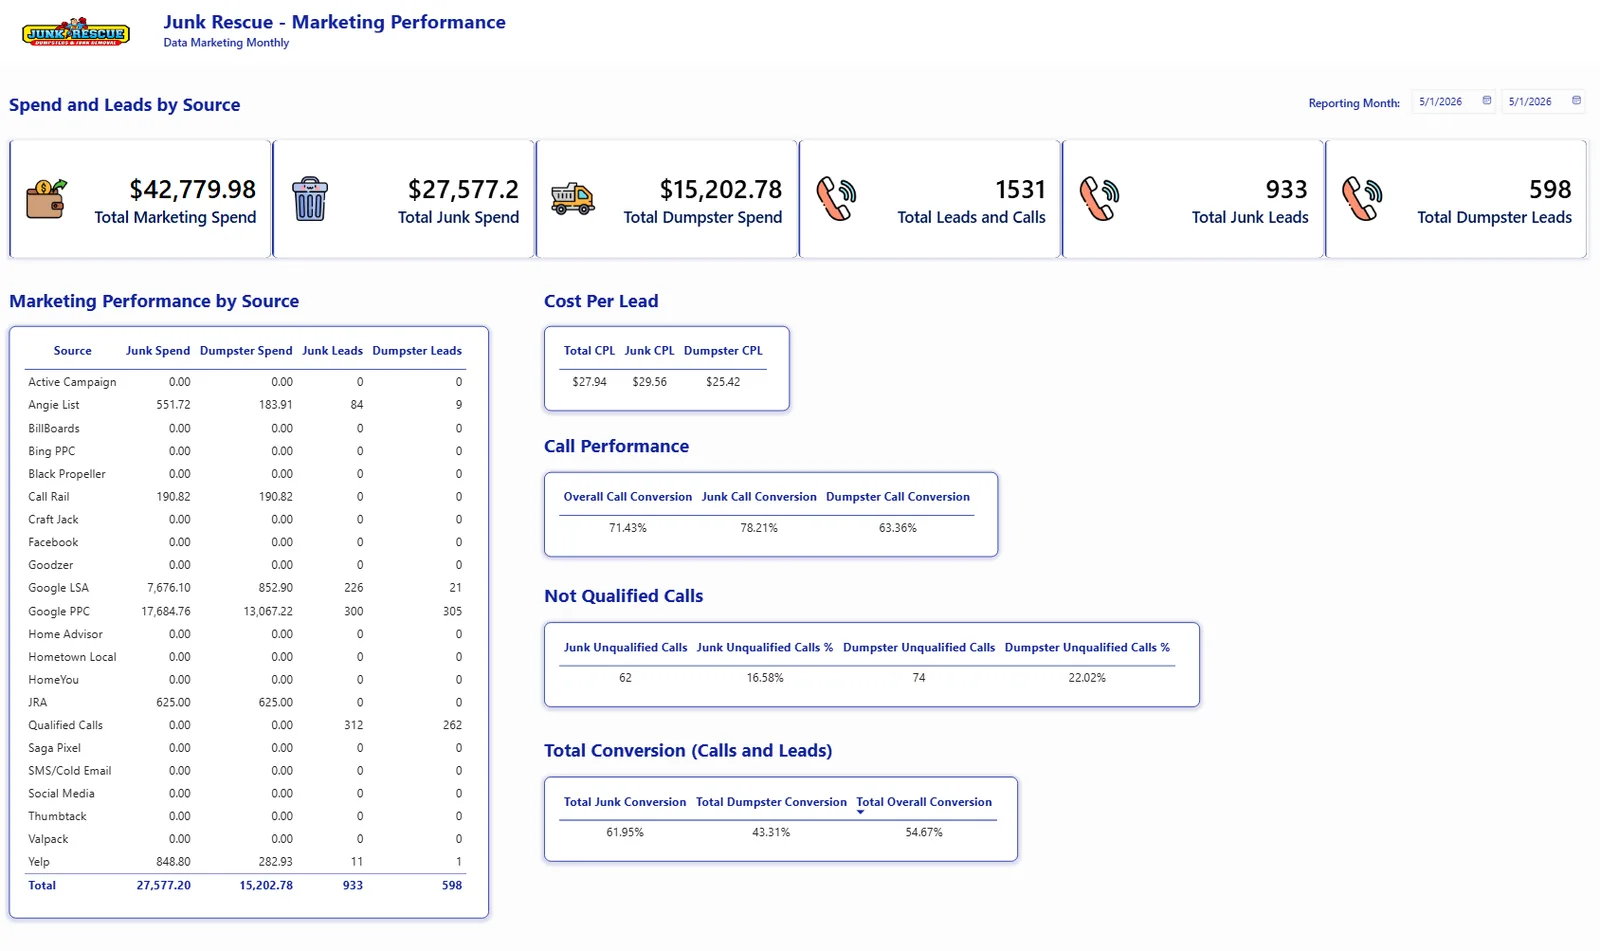
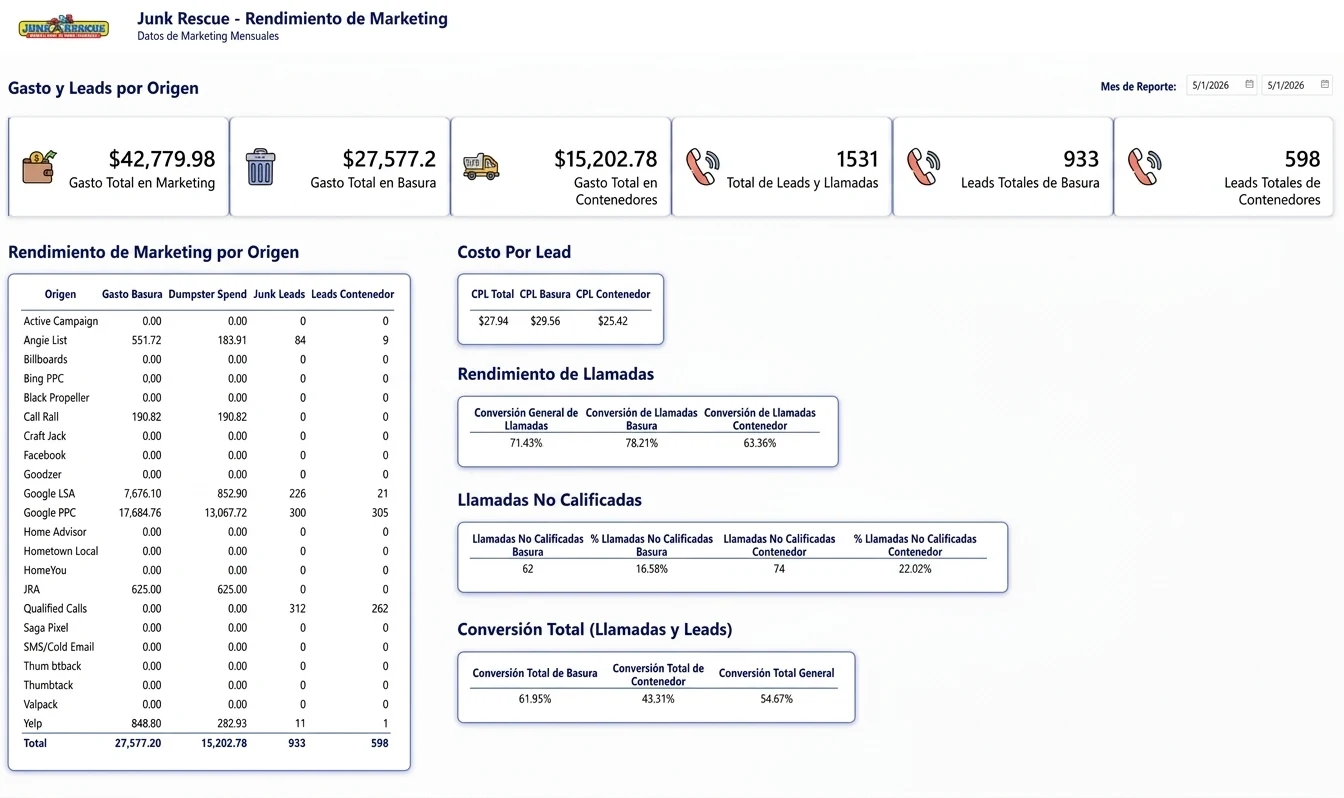
Foto en español para Junk Rescue
Claude-Session: https://claude.ai/code/session_01Aouw9WnimsE2P6Qrue7KLf

diff --git a/assets/project-pages.js b/assets/project-pages.js
@@ -240,7 +240,7 @@ const projects = [
   },
   {
     title:{en:'Junk Rescue Monthly Marketing Performance', es:'Rendimiento Mensual de Marketing de Junk Rescue'},
-    images:[{src:'assets/img/Junk Rescue/view1.webp', alt:'Junk Rescue monthly marketing performance dashboard'}],
+    images:[{src:'assets/img/Junk Rescue/view1.webp', alt:'Dashboard mensual de rendimiento de marketing de Junk Rescue'}],
     desc:{en:'Monthly marketing data dashboard for Junk Rescue. It centralizes Excel and Vonigo CRM data to evaluate spend, leads, cost per lead and conversions by source.', es:'Dashboard mensual de datos de marketing para Junk Rescue. Centraliza información de Excel y del CRM Vonigo para evaluar inversión, leads, costo por lead y conversiones por fuente.'},
     technologies:['Excel','Vonigo CRM','Power BI','Marketing Analytics'],
     bullets:{en:['Monthly marketing performance update','Excel and Vonigo CRM data sources','Spend and leads analysis by source','Cost-per-lead and call conversion monitoring'],es:['Actualización mensual del rendimiento de marketing','Fuentes de datos Excel y CRM Vonigo','Análisis de inversión y leads por fuente','Monitoreo de costo por lead y conversión de llamadas']}
